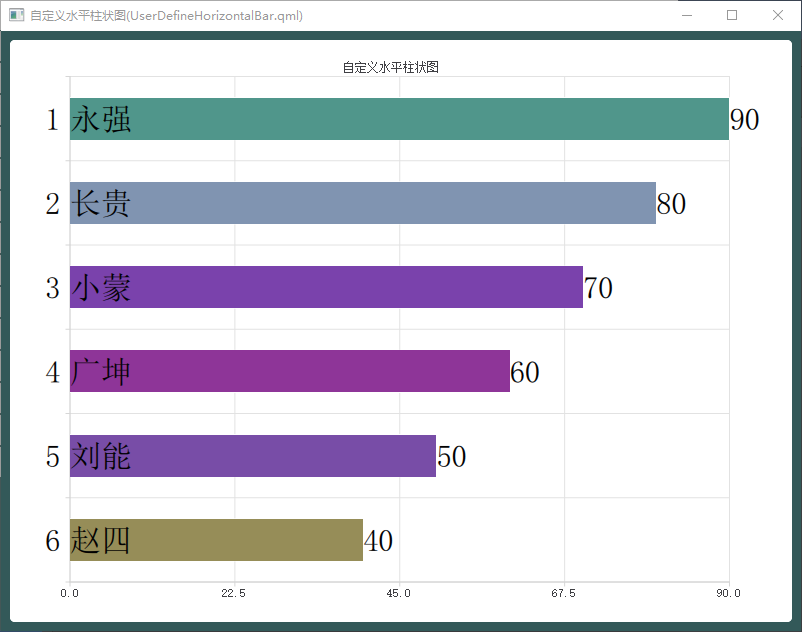
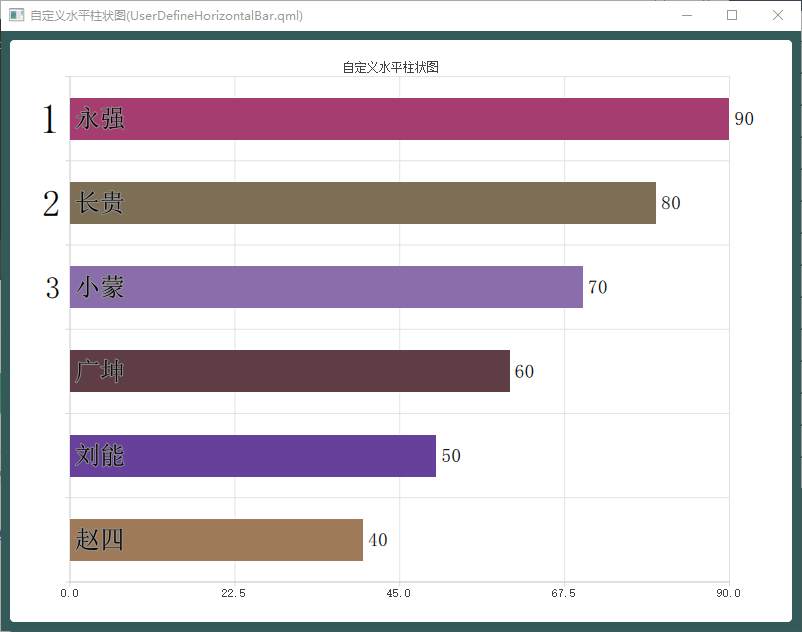
+

diff --git a/chapter08/charts/myqml/charts/UserDefineHorizontalBar.qml b/chapter08/charts/myqml/charts/UserDefineHorizontalBar.qml
@@ -22,28 +22,38 @@ DemoBasic {
             property alias labelText: idLabelText
 
             Text {
-                anchors.fill: parent
+                height: parent.height
+                anchors.left: parent.left
+                anchors.leftMargin: 5
                 id : idLabelText
                 text: labelYString
                 verticalAlignment : Text.AlignVCenter
-                font.pointSize: Math.max( parent.height*0.55 ,1 )
+                font.pointSize: Math.max( parent.height*0.45 ,1 )
+                style: Text.Outline;
+                styleColor: Qt.rgba(0.6,0.6,0.6,0.8)
             }
 
             Text {
-                x : parent.width
+                anchors.left: parent.right
+                anchors.leftMargin: 5
                 height: parent.height
                 text: parent.value
-                font.pointSize: idLabelText.font.pointSize
+                font.pointSize: Math.max( parent.height*0.35 ,1 )
                 verticalAlignment : Text.AlignVCenter
             }
 
             Text {
-                anchors.right: idLabelText.left
+                anchors.right: parent.left
                 anchors.rightMargin: 10
                 height: parent.height
-                font.pointSize: idLabelText.font.pointSize
+                font.pointSize: Math.max(
+                                    parent.height*(0.55 +
+                                                   0.1*
+                                                   Math.max(0, (3- index) ) )
+                                    ,1 )
                 verticalAlignment : Text.AlignVCenter
                 text: index
+                visible: index<4
             }
 
         }
